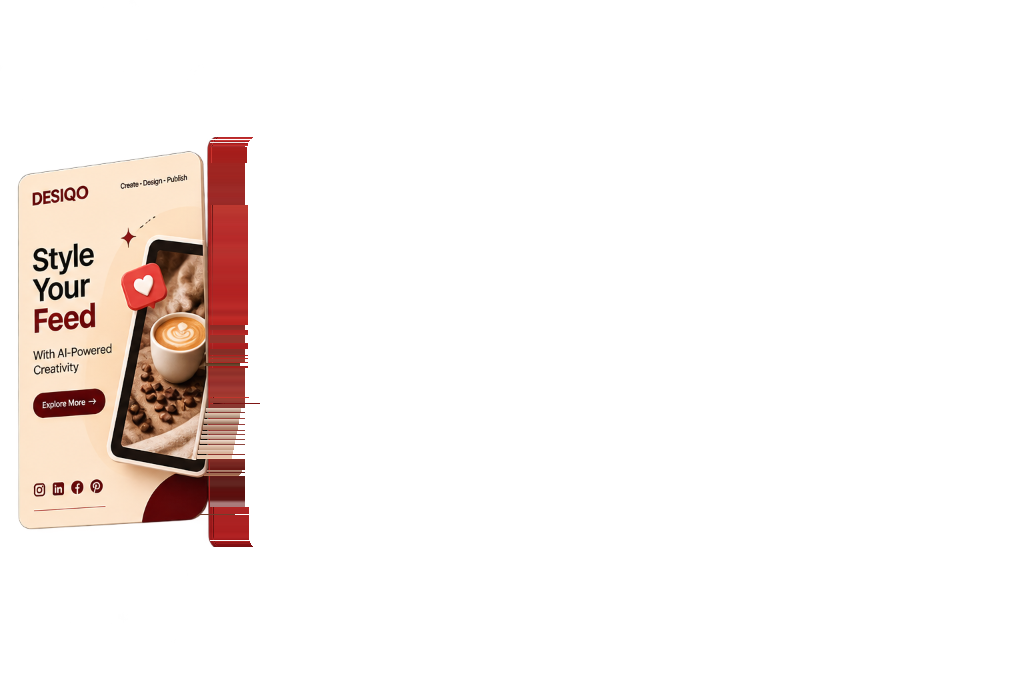
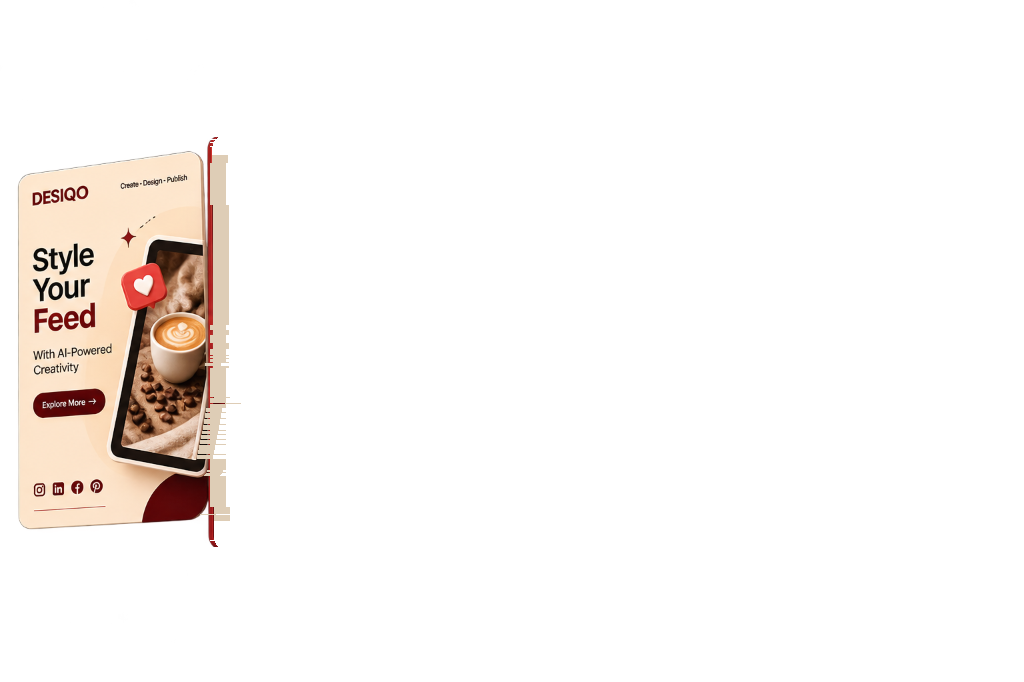
fix: eliminate streak artifacts on cards and enforce strict natural z-index stacking

Changed region(s): [[0.1875, 0.1848, 0.25, 0.8006]]

diff --git a/frontend/src/components/HeroPhonesShowcase.tsx b/frontend/src/components/HeroPhonesShowcase.tsx
@@ -2,7 +2,7 @@
 
 import React, { useState, useRef, useCallback } from "react";
 import Image from "next/image";
-import { motion, useMotionValue, useSpring, useTransform } from "framer-motion";
+import { motion, useMotionValue, useSpring } from "framer-motion";
 
 interface CardConfig {
   id: number;
@@ -14,7 +14,8 @@ interface CardConfig {
   delay: number;
   floatY: [number, number, number];
   floatRotate: [number, number, number];
-  depthParallax: number;
+  hoverY: number;
+  hoverScale: number;
   hitArea: {
     left: string;
     width: string;
@@ -30,11 +31,12 @@ const CARDS: CardConfig[] = [
     badge: "AI Creativity",
     src: "/images/card-layer-1.png",
     baseZ: 10,
-    duration: 5.8,
+    duration: 5.6,
     delay: 0,
-    floatY: [-5, 5, -5],
-    floatRotate: [-0.6, 0.4, -0.6],
-    depthParallax: 6,
+    floatY: [-3, 3, -3],
+    floatRotate: [-0.3, 0.3, -0.3],
+    hoverY: -4,
+    hoverScale: 1.015,
     hitArea: { left: "1.5%", width: "19%", top: "18%", bottom: "18%" },
   },
   {
@@ -43,11 +45,12 @@ const CARDS: CardConfig[] = [
     badge: "Smart Agents & Scheduling",
     src: "/images/card-layer-2.png",
     baseZ: 20,
-    duration: 6.6,
-    delay: 0.5,
-    floatY: [7, -7, 7],
-    floatRotate: [0.5, -0.4, 0.5],
-    depthParallax: 10,
+    duration: 6.2,
+    delay: 0.4,
+    floatY: [3.5, -3.5, 3.5],
+    floatRotate: [0.3, -0.2, 0.3],
+    hoverY: -5,
+    hoverScale: 1.018,
     hitArea: { left: "20%", width: "19%", top: "16%", bottom: "16%" },
   },
   {
@@ -56,11 +59,12 @@ const CARDS: CardConfig[] = [
     badge: "Central Intelligence Hub",
     src: "/images/card-layer-3.png",
     baseZ: 30,
-    duration: 5.0,
+    duration: 4.8,
     delay: 0.2,
-    floatY: [-9, 9, -9],
-    floatRotate: [-0.3, 0.3, -0.3],
-    depthParallax: 15,
+    floatY: [-5, 5, -5],
+    floatRotate: [-0.2, 0.2, -0.2],
+    hoverY: -8,
+    hoverScale: 1.025,
     hitArea: { left: "38%", width: "24%", top: "10%", bottom: "12%" },
   },
   {
@@ -69,11 +73,12 @@ const CARDS: CardConfig[] = [
     badge: "Engagement Growth +248%",
     src: "/images/card-layer-4.png",
     baseZ: 22,
-    duration: 6.2,
-    delay: 0.9,
-    floatY: [6, -6, 6],
-    floatRotate: [-0.5, 0.4, -0.5],
-    depthParallax: 10,
+    duration: 5.8,
+    delay: 0.6,
+    floatY: [3.5, -3.5, 3.5],
+    floatRotate: [-0.3, 0.2, -0.3],
+    hoverY: -5,
+    hoverScale: 1.018,
     hitArea: { left: "61%", width: "19%", top: "16%", bottom: "16%" },
   },
   {
@@ -82,11 +87,12 @@ const CARDS: CardConfig[] = [
     badge: "Multi-Format Campaigns",
     src: "/images/card-layer-5.png",
     baseZ: 12,
-    duration: 5.4,
-    delay: 0.4,
-    floatY: [-5, 6, -5],
-    floatRotate: [0.5, -0.5, 0.5],
-    depthParallax: 6,
+    duration: 5.2,
+    delay: 0.3,
+    floatY: [-3, 3, -3],
+    floatRotate: [0.3, -0.3, 0.3],
+    hoverY: -4,
+    hoverScale: 1.015,
     hitArea: { left: "79.5%", width: "19%", top: "20%", bottom: "18%" },
   },
 ];
@@ -142,15 +148,14 @@ export default function HeroPhonesShowcase() {
             key={card.id}
             className="absolute inset-0 will-change-transform pointer-events-none"
             style={{
-              zIndex: isHovered ? 50 : card.baseZ,
+              zIndex: card.baseZ, // Strict natural hierarchy preserved at all times
             }}
             animate={
               isHovered
                 ? {
-                    y: -18,
-                    scale: 1.045,
-                    rotate: 0,
-                    filter: "drop-shadow(0 28px 40px rgba(89,9,7,0.30))",
+                    y: card.hoverY,
+                    scale: card.hoverScale,
+                    filter: "brightness(1.03) drop-shadow(0 24px 36px rgba(89,9,7,0.26))",
                   }
                 : {
                     y: card.floatY,
@@ -158,16 +163,16 @@ export default function HeroPhonesShowcase() {
                     scale: 1,
                     filter:
                       card.id === 3
-                        ? "drop-shadow(0 20px 32px rgba(89,9,7,0.20))"
-                        : "drop-shadow(0 14px 24px rgba(89,9,7,0.15))",
+                        ? "drop-shadow(0 20px 32px rgba(89,9,7,0.18))"
+                        : "drop-shadow(0 14px 22px rgba(89,9,7,0.14))",
                   }
             }
             transition={
               isHovered
                 ? {
                     type: "spring",
-                    stiffness: 300,
-                    damping: 20,
+                    stiffness: 260,
+                    damping: 24,
                   }
                 : {
                     y: {
@@ -205,7 +210,7 @@ export default function HeroPhonesShowcase() {
           key={`hit-${card.id}`}
           onMouseEnter={() => setHoveredCard(card.id)}
           onMouseLeave={() => setHoveredCard(null)}
-          className="absolute cursor-pointer rounded-3xl transition-colors duration-150"
+          className="absolute cursor-pointer rounded-3xl"
           style={{
             left: card.hitArea.left,
             width: card.hitArea.width,
